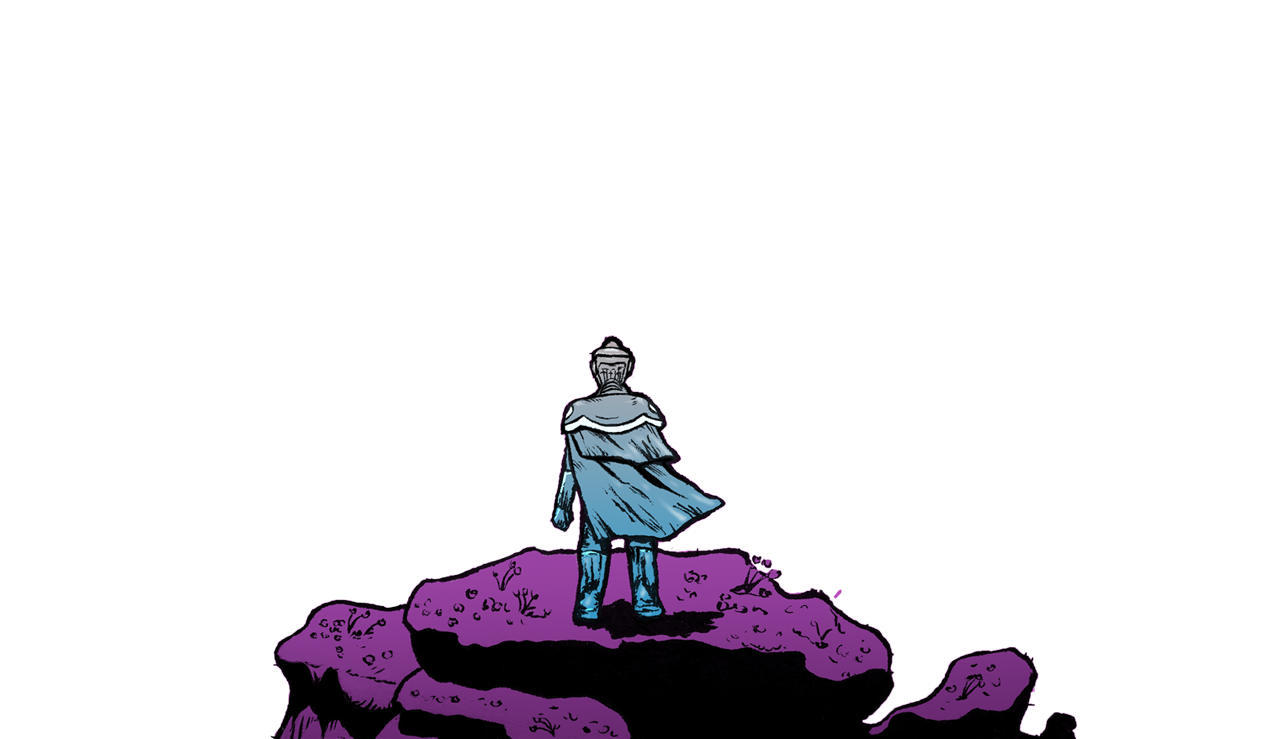
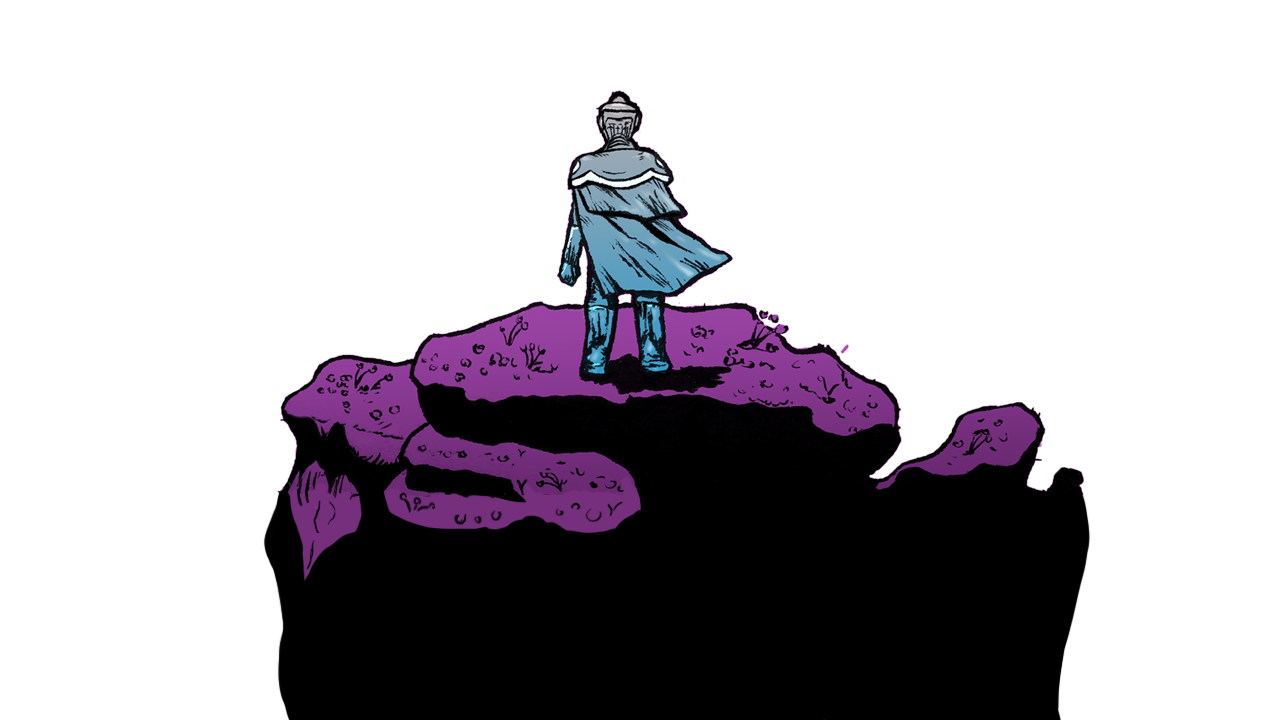
fixing parallax hero

Changed region(s): [[0.1875, 0.1222, 0.875, 1.0]]

diff --git a/src/components/layout.css b/src/components/layout.css
@@ -124,6 +124,7 @@ h6 {
 .para2 {
   position: absolute;
   width: 100%;
+  transform: translate(0px, 250px);
 }
 
 .para3 {
@@ -139,12 +140,12 @@ h6 {
 .para5 {
   position: absolute;
   width: 100%;
-  transform: translate(100px, -300px)
+  transform: translate(100px, -300px);
 }
 
 @media (max-width: 700px) {
   .parallax-container {
-    height: 50vh;
+    height: 40vh;
   }
 
   .para1 {
@@ -153,7 +154,7 @@ h6 {
 
   .para2 {
     width: 150%;
-    transform: translateY(10px)
+    transform: translate(0, 80px);
   }
 
   .para3 {
